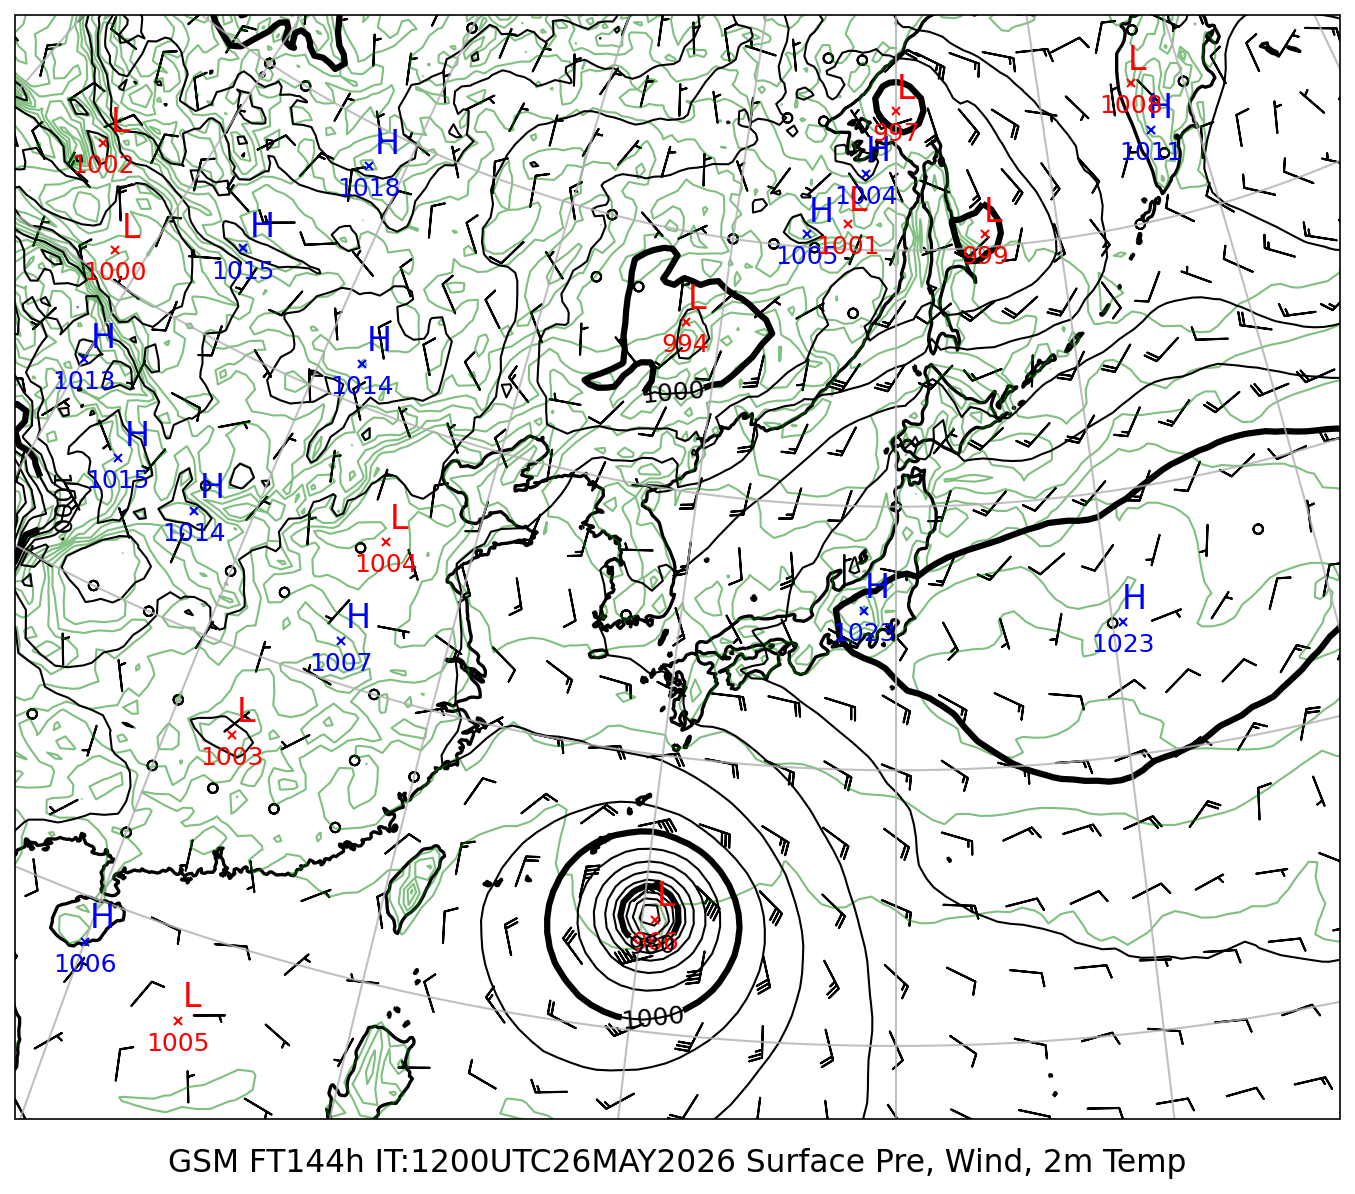
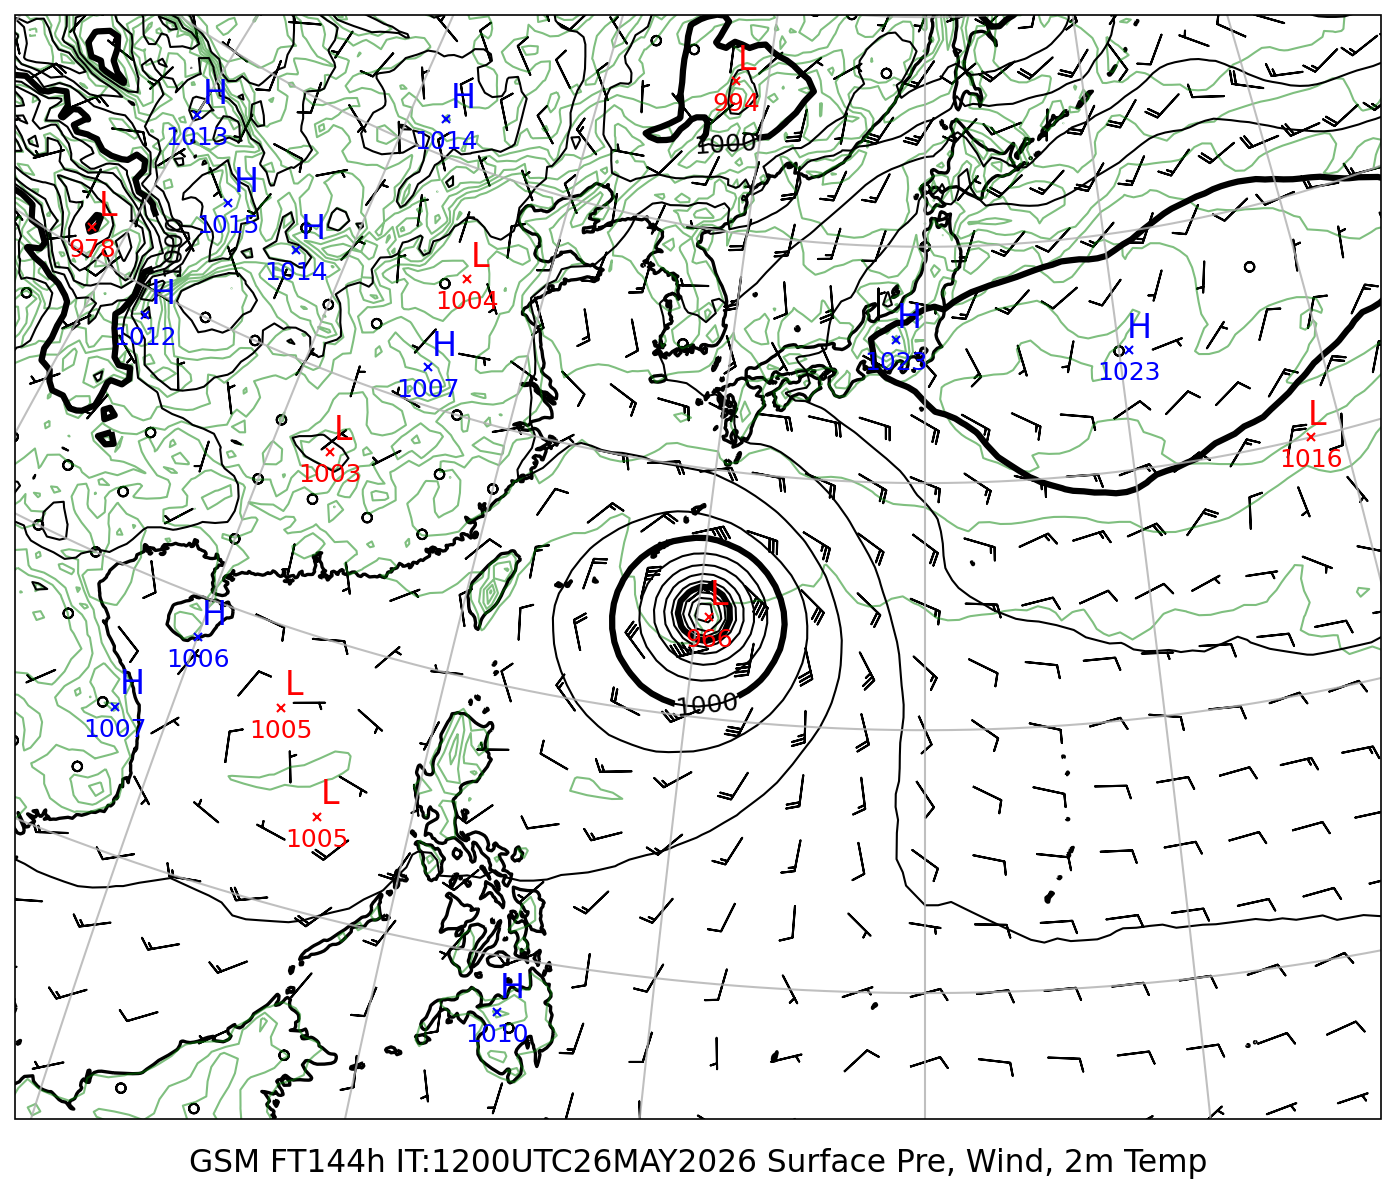
report: 地上気圧比較レポート GSM+ECM FT144 (2026052612)

diff --git a/reports/2026052612/srf_comparison_FT144.md b/reports/2026052612/srf_comparison_FT144.md
@@ -1,0 +1,13 @@
+# 地上気圧 GSM/ECMWF 比較レポート
+
+**初期時刻**: 2026/05/26 12UTC
+
+---
+
+## 地上気圧・10m風・2m気温
+
+#### FT=144h (6/1 21時JST)
+
+| GSM | ECMWF |
+|:---:|:---:|
+| ![GSM FT=144h](./2026052612_FT144h_GSM_SurfacePressure.png) | ![ECMWF FT=144h](./2026052612_FT144h_ECM_SurfacePressure.png) |
